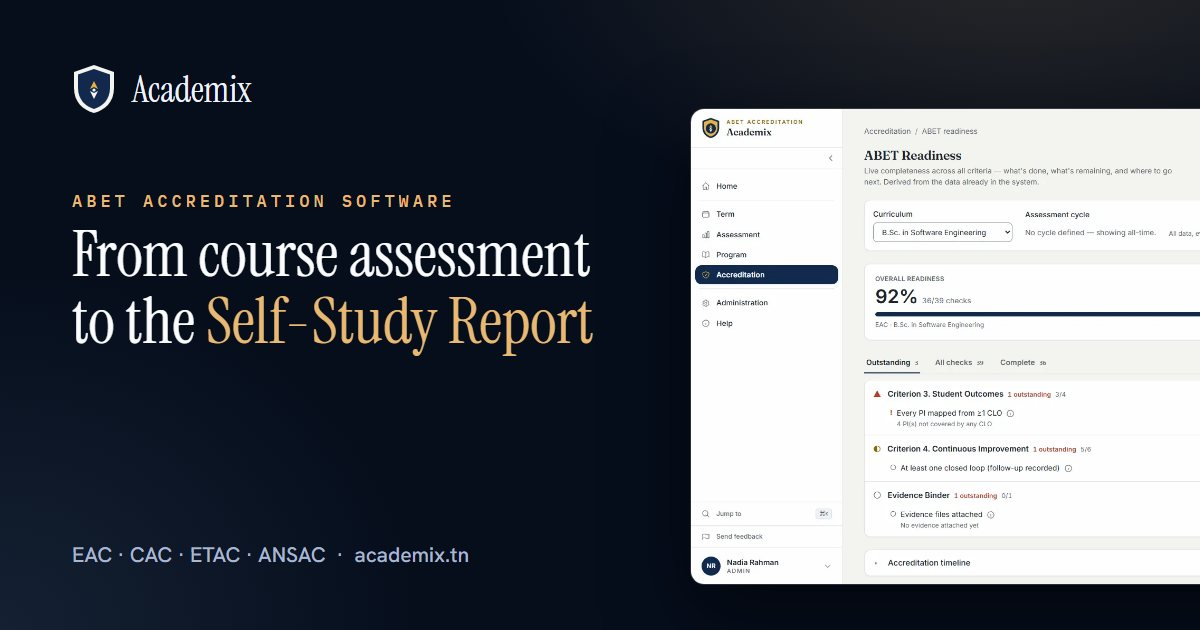
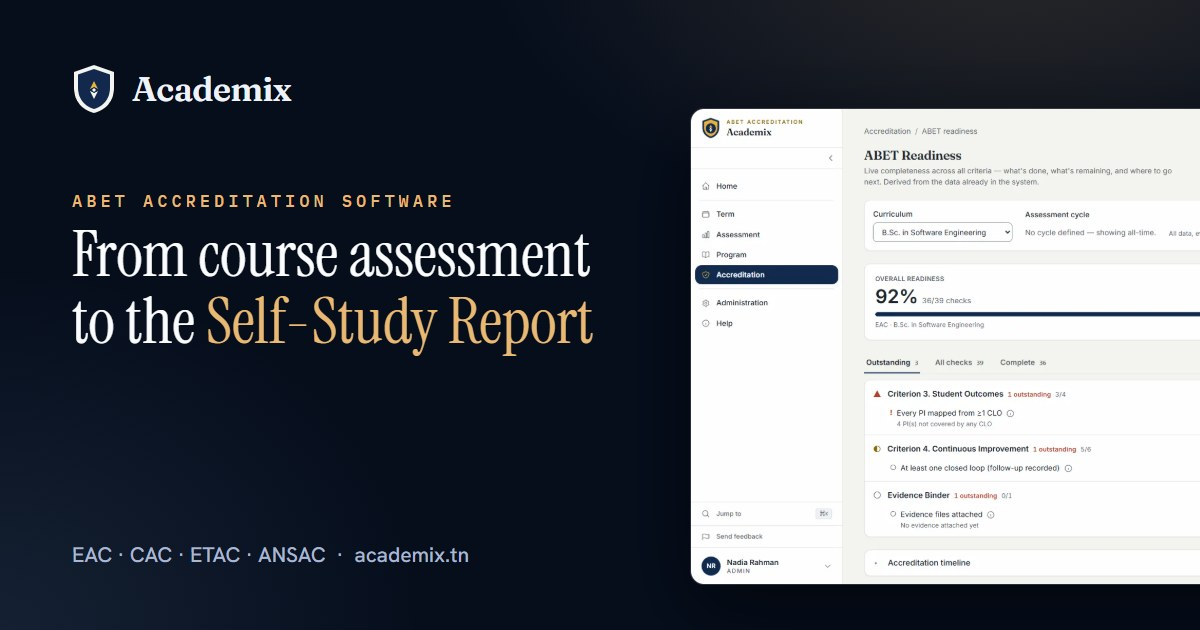
Wordmark in Fraunces, as in the Academix brand kit
The "Academix" beside the shield used Instrument Serif; the brand kit and the
platform set it in Fraunces 600 with -0.5 letter-spacing. Header and footer on
the home page and the static pages now use a font-wordmark family, loaded as a
subset of just its letters. The social banner is re-rendered to match.
Headings keep Instrument Serif.

Claude-Session: https://claude.ai/code/session_01EmxmVzzq3v67WxYbkPqwiq

Changed region(s): [[0.0925, 0.1206, 0.2467, 0.181], [0.7708, 0.2413, 0.8017, 0.2714]]

diff --git a/src/App.js b/src/App.js
@@ -82,7 +82,7 @@ function App() {
           {/* Brand */}
           <a href="#home" className="flex items-center gap-3 no-underline">
             <BrandLogo className="h-9 w-auto" />
-            <span aria-hidden="true" className="font-serif text-[24px] tracking-[.3px] text-white">Academix</span>
+            <span aria-hidden="true" className="font-wordmark text-[24px] font-semibold tracking-[-0.014em] text-white">Academix</span>
           </a>
 
           {/* Center links (desktop) */}
@@ -169,7 +169,7 @@ function App() {
           <div>
             <div className="mb-4 flex items-center gap-3">
               <BrandLogo className="h-9 w-auto" />
-              <span aria-hidden="true" className="font-serif text-[22px] text-white">Academix</span>
+              <span aria-hidden="true" className="font-wordmark text-[22px] font-semibold tracking-[-0.014em] text-white">Academix</span>
             </div>
             <p className="max-w-[340px] text-[14px] leading-[1.6] text-[#8293af]">{t.footer.blurb}</p>
           </div>

diff --git a/public/index.html b/public/index.html
@@ -67,6 +67,8 @@
       href="https://fonts.googleapis.com/css2?family=Instrument+Serif:ital@0;1&family=Hanken+Grotesk:wght@400;500;600;700&family=IBM+Plex+Mono:wght@400;500&display=swap"
       rel="stylesheet"
     />
+    <!-- The wordmark font, only the letters of "Academix" -->
+    <link href="https://fonts.googleapis.com/css2?family=Fraunces:wght@600&text=Academix&display=swap" rel="stylesheet" />
   </head>
   <body>
     <noscript>You need to enable JavaScript to run this app.</noscript>

diff --git a/tailwind.config.js b/tailwind.config.js
@@ -76,6 +76,8 @@ module.exports = {
       },
       fontFamily: {
         serif: ['"Instrument Serif"', 'Georgia', 'serif'],
+        // The Academix wordmark only (brand kit: Fraunces 600, -0.5 letter-spacing at 36px).
+        wordmark: ['Fraunces', 'Georgia', 'serif'],
         sans: [
           '"Hanken Grotesk"',
           'system-ui',

diff --git a/CLAUDE.md b/CLAUDE.md
@@ -26,7 +26,9 @@ Create React App boilerplate and can be ignored.) See the workspace-root
   lucide-react, Radix UI primitives. The 2026 redesign: deep navy + gold
   (`#060e1c` ground, `#e9b872` accent; `navy`/`gold`/`steel` in
   `tailwind.config.js`), Instrument Serif for display, Hanken Grotesk for text,
-  IBM Plex Mono for eyebrows and data. Bilingual EN/FR: every public string lives
+  IBM Plex Mono for eyebrows and data. The "Academix" wordmark beside the shield
+  is Fraunces 600 (`font-wordmark`), as in the brand kit and the platform; only
+  its eight letters are loaded (`&text=Academix`). Bilingual EN/FR: every public string lives
   in `src/i18n/content.js`, read through `useLanguage()`.
 - **Backend**: `server.js` — Express serving the CRA `build/` with a `/api/contact`
   endpoint (Resend email), `/api/quote` (see "License quotes" below), `express-rate-limit`, an optional HTTP Basic-Auth
